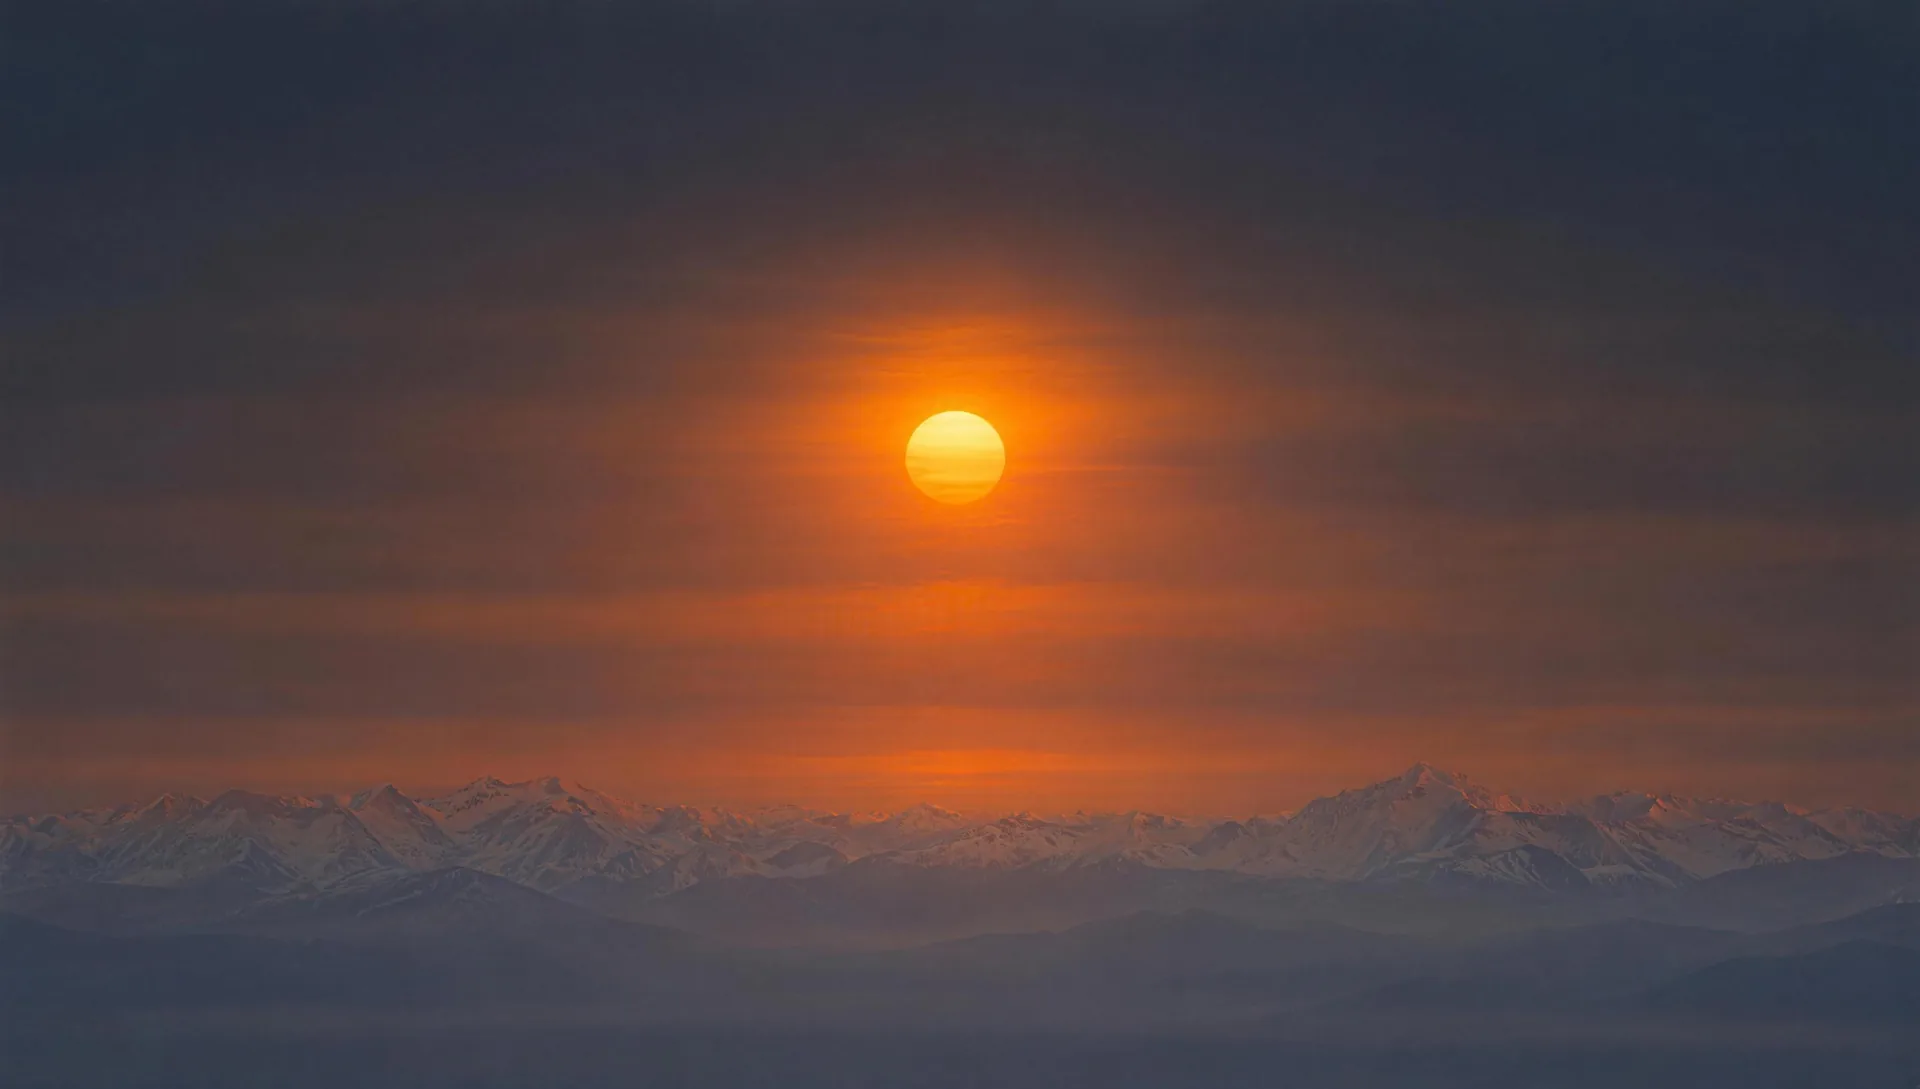
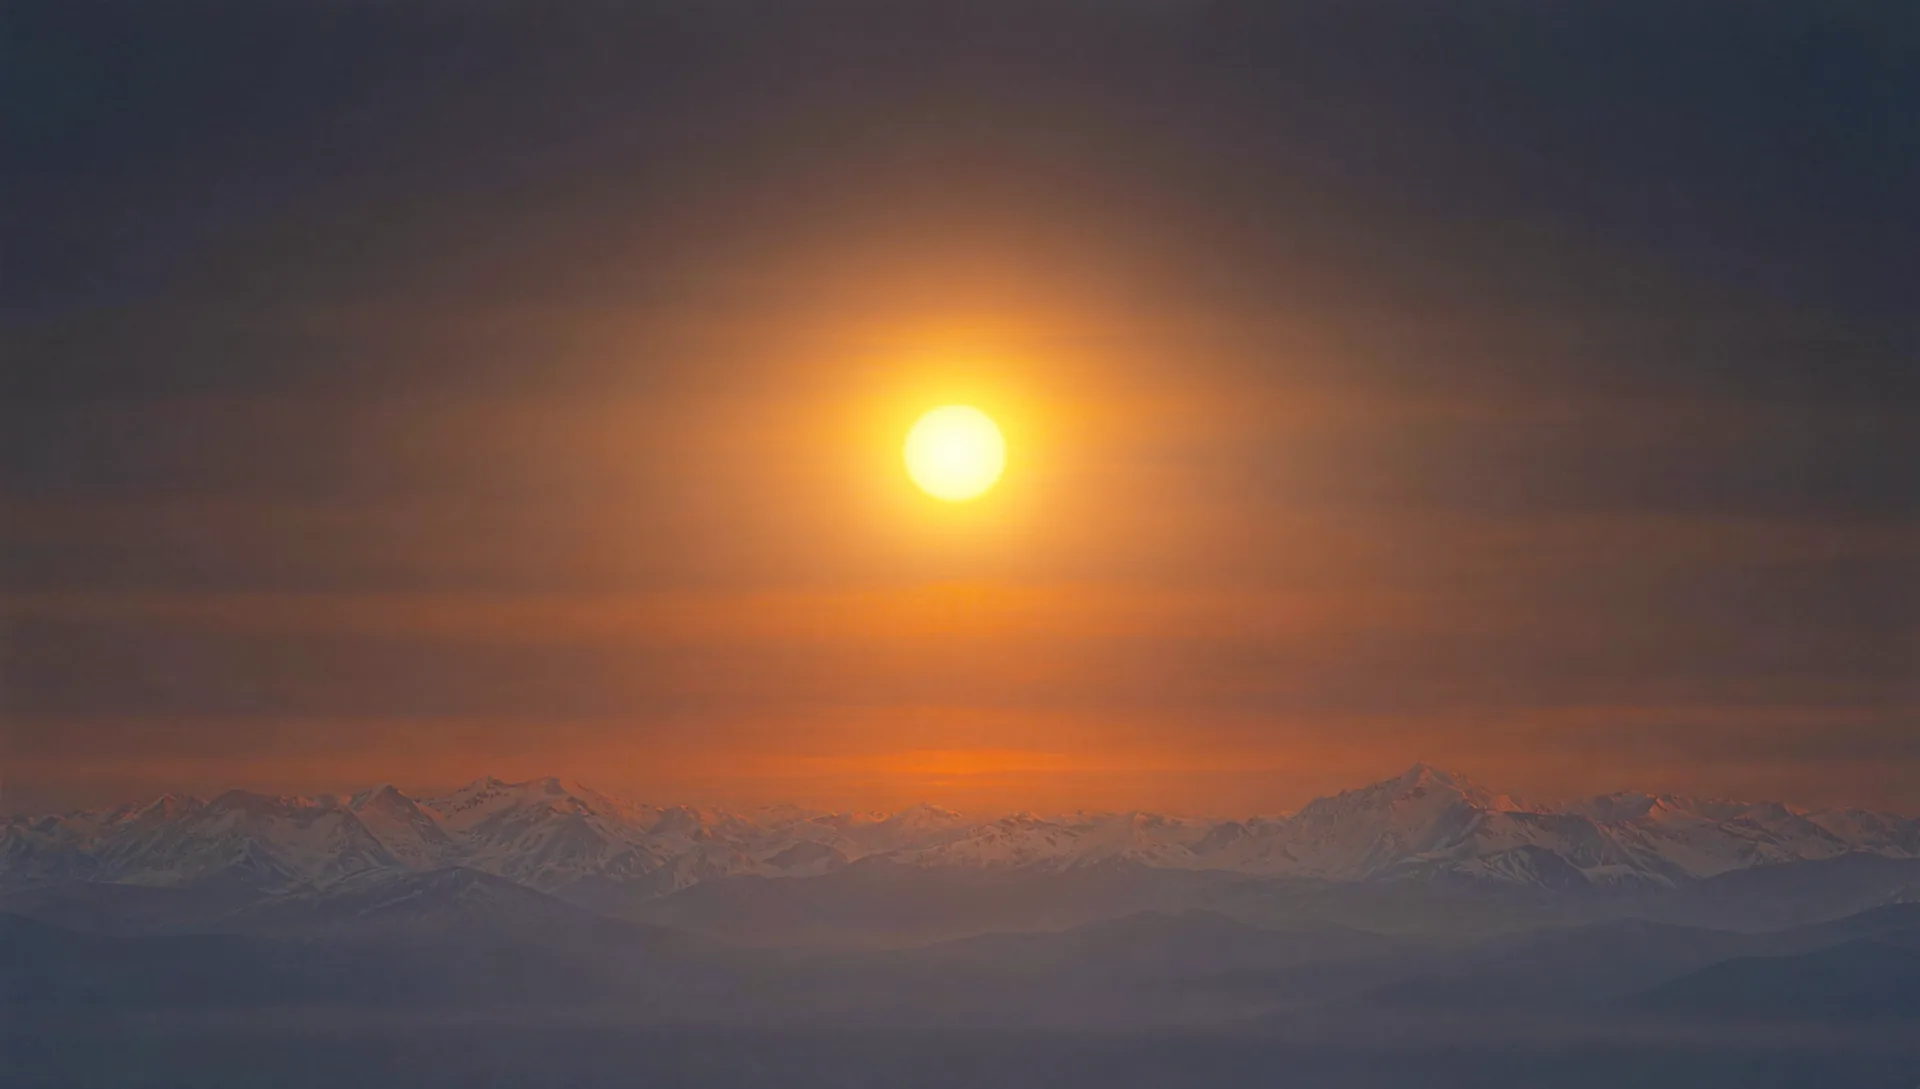
Sonne realistischer (weicher Kern, Glut), Scroll-Ruckeln behoben: kein mix-blend-mode/filter, normalizeScroll am Handy

Changed region(s): [[0.2188, 0.0312, 0.7812, 0.6556]]

diff --git a/index.html b/index.html
@@ -70,7 +70,8 @@ img { display: block; max-width: 100%; height: auto; }
   display: flex; justify-content: space-between; align-items: center;
   padding: 22px var(--pad);
   font-size: 14px;
-  mix-blend-mode: difference;
+  color: var(--text);
+  text-shadow: 0 1px 12px rgba(14,14,12,0.6);
 }
 .nav__mark { font-family: var(--serif); font-size: 22px; letter-spacing: 0.01em; }
 .nav__links { display: flex; gap: 28px; }
@@ -92,7 +93,7 @@ img { display: block; max-width: 100%; height: auto; }
   width: 100%; height: 118%;
   object-fit: cover; object-position: 50% 100%;
   pointer-events: none; user-select: none;
-  will-change: transform;
+  will-change: transform; backface-visibility: hidden; transform: translateZ(0);
 }
 .parallax__layer-title {
   position: absolute; top: 0; left: 0; width: 100%; height: 100svh;
@@ -107,13 +108,11 @@ img { display: block; max-width: 100%; height: auto; }
   letter-spacing: 0.02em;
   text-transform: uppercase;
   white-space: nowrap;
-  /* warmes Off-White, unten leicht ins Abendlicht – passt zu Glut und Felsen */
-  background: linear-gradient(180deg, #F7F3EC 0%, #F2EFE8 55%, #E9C9A8 100%);
-  -webkit-background-clip: text; background-clip: text; color: transparent;
-  filter: drop-shadow(0 0.03em 0.25em rgba(0,0,0,0.45));
+  color: #F4EEE4;
+  text-shadow: 0 0.03em 0.2em rgba(0,0,0,0.45);
 }
-.parallax__title .dot, .nav__mark .dot { color: var(--accent); -webkit-text-fill-color: var(--accent); }
-.parallax__title .dot { text-shadow: 0 0 0.35em rgba(255,140,60,0.7); filter: none; }
+.parallax__title .dot, .nav__mark .dot { color: var(--accent); }
+.parallax__title .dot { text-shadow: 0 0 0.35em rgba(255,140,60,0.7); }
 .nav__mark { text-transform: uppercase; letter-spacing: 0.06em; font-size: 18px; }
 .parallax__layer-img--sky { top: -26%; }
 /* Sonne/Glut hinter dem Titel – bewegt sich mit dem Himmel */
@@ -501,7 +500,8 @@ img { display: block; max-width: 100%; height: auto; }
   var smoother = null;
   if (window.ScrollSmoother) {
     gsap.registerPlugin(ScrollSmoother);
-    smoother = ScrollSmoother.create({ wrapper: '#smooth-wrapper', content: '#smooth-content', smooth: 0.9, effects: false, normalizeScroll: false });
+    var touch = window.matchMedia('(pointer: coarse)').matches;
+    smoother = ScrollSmoother.create({ wrapper: '#smooth-wrapper', content: '#smooth-content', smooth: 0.9, smoothTouch: 0.12, effects: false, normalizeScroll: touch, ignoreMobileResize: true });
     document.querySelectorAll('a[href^="#"]').forEach(function (a) {
       a.addEventListener('click', function (e) {
         var id = a.getAttribute('href');
@@ -522,7 +522,7 @@ img { display: block; max-width: 100%; height: auto; }
      Person und Vordergrund laufen gleich schnell, damit die Füße auf dem Fels bleiben. */
   var layersEl = document.querySelector('[data-parallax-layers]');
   var tl = gsap.timeline({
-    scrollTrigger: { trigger: layersEl, start: '0% 0%', end: '100% 0%', scrub: smoother ? true : 0.6 }
+    scrollTrigger: { trigger: layersEl, start: '0% 0%', end: '100% 0%', scrub: (smoother && !window.matchMedia('(pointer: coarse)').matches) ? true : 0.35 }
   });
   [['1', 70], ['2', 55], ['3', 52], ['4', 12], ['5', 12]].forEach(function (l, i) {
     tl.to(layersEl.querySelectorAll('[data-parallax-layer="' + l[0] + '"]'),

diff --git a/LIESMICH.md b/LIESMICH.md
@@ -3,7 +3,7 @@
 Eine HTML-Datei, kein Build, nichts von fremden Servern. Aufbau nach der Osmo-Parallax-Vorlage:
 riesiger Name „ERGUN." oben, Sonne dahinter, Emre selbst auf dem Felsgrat davor, Berge schieben sich
 beim Scrollen über den Namen. Danach direkt die Pakete, dann Kontakt mit Formular.
-**Doppelklick auf `index.html` genügt zum Ansehen.** Live-Vorschau: https://claude.ai/artifact/StgMnMKTGwnpTupKmEFNAD
+**Live: https://website-ergun.vercel.app** (Vercel, automatisch aus GitHub `logodropde-max/Website-Ergun.`). Doppelklick auf `index.html` zeigt den lokalen Stand.
 
 ## Dateien
 | Datei | Wofür |
@@ -47,8 +47,7 @@ Handy: Bewegung × 0,6. `prefers-reduced-motion`: Standbild.
 ## Das musst du noch entscheiden / prüfen
 | Was | Wo |
 |---|---|
-| Domain – Platzhalter `DEINE-DOMAIN.de` | `og:image` in `index.html` |
-| Hosting-Anbieter | `datenschutz.html`, Abschnitt 3 |
+| Eigene Domain (aktuell https://website-ergun.vercel.app) | Vercel → Domains; danach `og:image`/Canonical in `index.html` anpassen |
 | Datenschutz rechtlich prüfen lassen | `datenschutz.html` |
 | Gewerbebezeichnung im Impressum | `impressum.html` |
 | Preise (80 / 250 / 400 €) endgültig? | `index.html`, Abschnitt Pakete · `02 Preise` |
